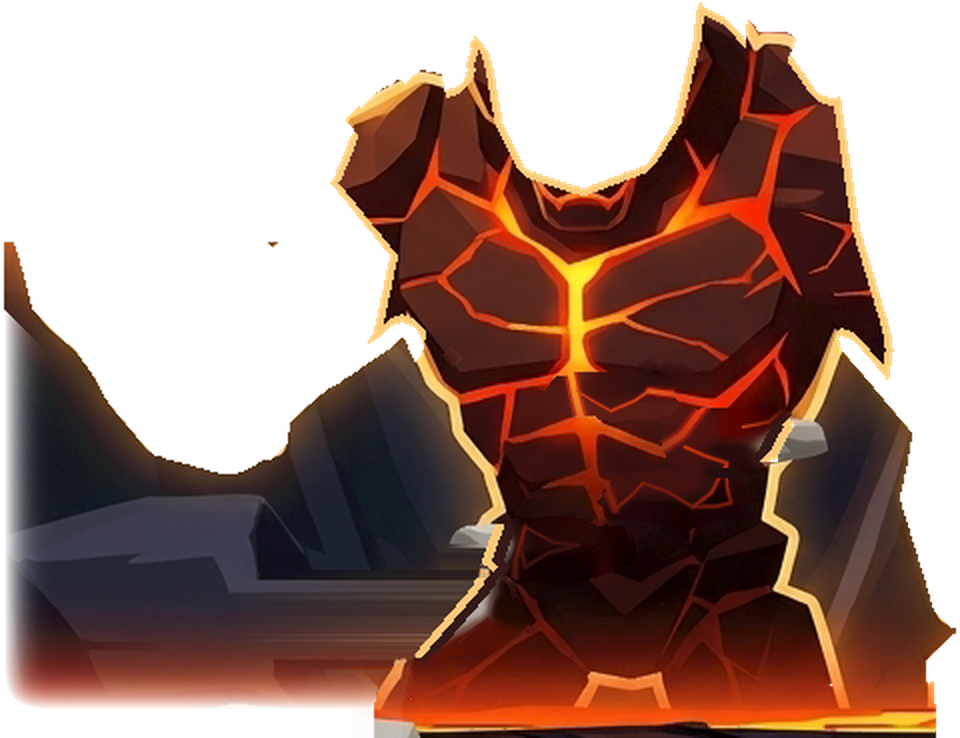
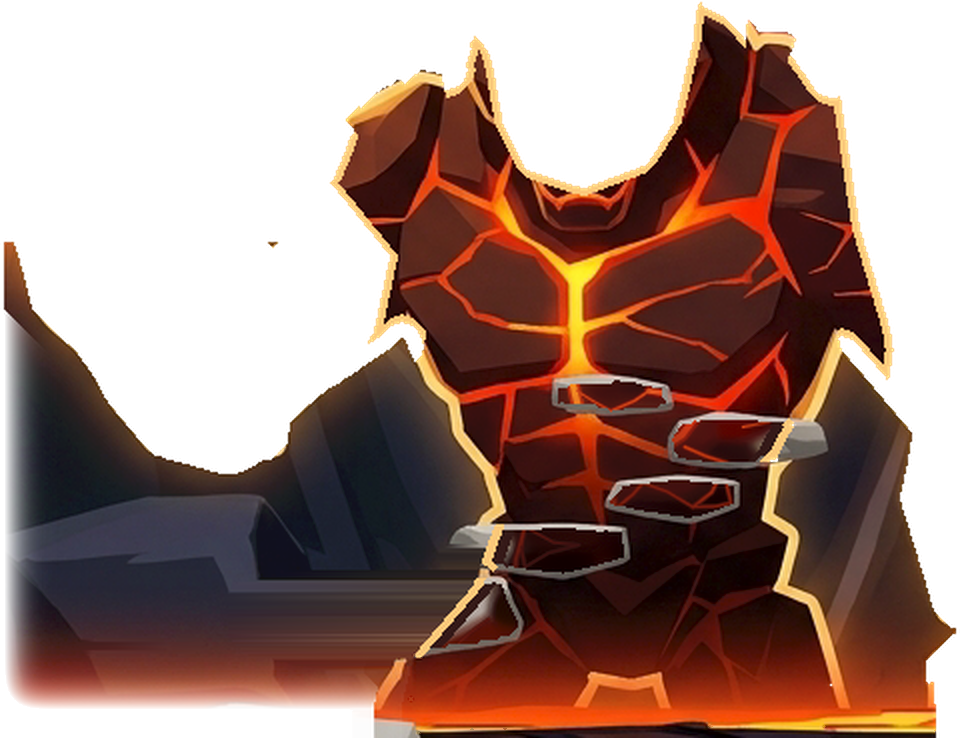
builder: cracks — TARGET's own stone edges kept round each slab, with the square-on drawing; grader PASS
Claude-Session: https://claude.ai/code/session_01SVKwRE7XjZAQ44YbnjkWtX

Changed region(s): [[0.4375, 0.4986, 0.8125, 0.9038]]

diff --git a/tools/beast_rig.py b/tools/beast_rig.py
@@ -65,6 +65,8 @@ CRACK_SYNTH = True
 KEEP_DARK = 70
 # ...but not within this many px of a stone's own pixels (its dark underline).
 KEEP_DARK_OFF = 3
+# TARGET's own pixels kept in a stone's outer px and the hole round it (0: off).
+STONE_EDGE_KEEP = 3
 # A pixel this far off its 5x5 median, alone in its 7x7 window (at most
 # DESPECK_PX such), is a speck (0: off).
 DESPECK = 60
@@ -313,6 +315,16 @@ def paint_hidden(T, m, line, walls):
                 out[dark] = T[dark]
         else:
             out = carry_seam(out, hole)
+        if STONE_EDGE_KEEP:
+            # 2026-10-09 run 15: the fight's slabs land within ~1-2 px of
+            # TARGET's, so a stone's rebuilt rim showed beside each slab as
+            # specks, a red smear right of slab 2 and a dark band on slab 1's
+            # top (grader). TARGET's own pixels stay in the hole's outer
+            # ring and the stone's outer STONE_EDGE_KEEP px: where the slab
+            # falls short, TARGET's own stone edge and rock show, as TARGET.
+            core = ndi.binary_erosion(raw_stone, iterations=STONE_EDGE_KEEP)
+            ring = hole & ~core & ~band
+            out[ring] = T[ring]
         # The band's stone pixels: the line goes back over them below.
         # Only the stone's own pixels: the grown ring poked out under a
         # slab's edge as a cream speck beside TARGET's line (queue, "Inner

diff --git a/design/plan/BUILDER-QUEUE.md b/design/plan/BUILDER-QUEUE.md
@@ -32,11 +32,11 @@ run failed.
       Test: state=3d beast=cinder_jackal
       ![[agents/frames/builder/2026-10-08-softslabs-after.png|420]] ^stones-thin-soft-slabs-lower-and-spread
 
-- [ ] **Cracks: wide hot cores and a long sternum seam.**
-      Next pass: grader 2026-10-09 run 15 R1 FAIL ("no visible change; belly web dim and thin, seam narrows below the fork, red glow right of slab 2"). Run 15 removed the dark dashes under slab 2 (a stone's own underline kept by KEEP_DARK); 32-px blocks on --chest now differ from TARGET only on slab edges (slabs ~1-3 px off) and one block at slab 1's top edge. FIX left: slab 1 ~2 px high/low against TARGET's top edge; the rest is TARGET's own pixels.
-      Both critics, MODERATE: TARGET's cracks are wide with yellow-hot cores and a bright yellow seam running down from the sternum; the game's are thinner, redder, with a small dim Y.
-      **Done when** the `--square` and `--beast` pairs show no visible difference in the cracks and the sternum seam.
-      Test: state=3d beast=cinder_jackal ^cracks-wide-hot-cores-and-a-long-sternum
+- [ ] 👀 **Cracks: wide hot cores and a long sternum seam.**
+      ▶ [Test this now](obsidian://shell-commands/?vault=design&execute=fight-uri-beast&_beast=cinder_jackal) · [[BUILDER-QUEUE-NOTES#Cracks: wide hot cores and a long sternum seam.|details]]
+      Ask: nothing
+      Test: state=3d beast=cinder_jackal
+      ![[agents/frames/builder/2026-10-09-cracks15-after.png|420]] ^cracks-wide-hot-cores-and-a-long-sternum
 
 - [ ] 👀 **Fist fire: compact curling blaze wrapped on the fist.**
       ▶ [Test this now](obsidian://shell-commands/?vault=design&execute=fight-uri-beast&_beast=cinder_jackal) · [[BUILDER-QUEUE-NOTES#Fist fire: compact curling blaze wrapped on the fist.|details]]

diff --git a/design/plan/BUILDER-QUEUE-NOTES.md b/design/plan/BUILDER-QUEUE-NOTES.md
@@ -2229,6 +2229,14 @@ Found by measuring, not by eye: the jackal is TARGET's own pixels, so every crac
 - Frames: ![[agents/frames/builder/2026-10-09-cracks12-before.png|420]] ![[agents/frames/builder/2026-10-09-cracks12-after.png|420]]
 - Meshy: 0 credits.
 
+2026-10-09 12:04 EDT, builder (run 15, second pass). PASS.
+
+- **Registration first.** The fist item's fix (the drawing turned square on to the camera, DRAWN_ZOOM 1.008) put every chest patch within ~0.2 px of TARGET: chest mean abs error 5.75 -> 4.56.
+- **STONE_EDGE_KEEP 3** (beast_rig.py): TARGET's own pixels stay in each stone's outer 3 px and the ring round it; only the stone's core is rebuilt. Where the fight's slab falls a px short, TARGET's own stone edge and rock show. Chest error 4.56 -> 3.95.
+- **Grader:** R2 FAIL (before the edge keep: smear right of slab 2, seam, belly), R3 PASS (minor, --chest only: crack right of slab 2 a little soft, edges a touch soft, seam maybe 1-2 px narrower). VERDICT: PASS.
+- Frames: ![[agents/frames/builder/2026-10-09-run15-before.png|420]] ![[agents/frames/builder/2026-10-09-cracks15-after.png|420]]
+- Meshy: 0 credits.
+
 ## Fist fire: compact curling blaze wrapped on the fist.
 
 2026-10-08 18:51 EDT, builder. Not passed; item left open.
